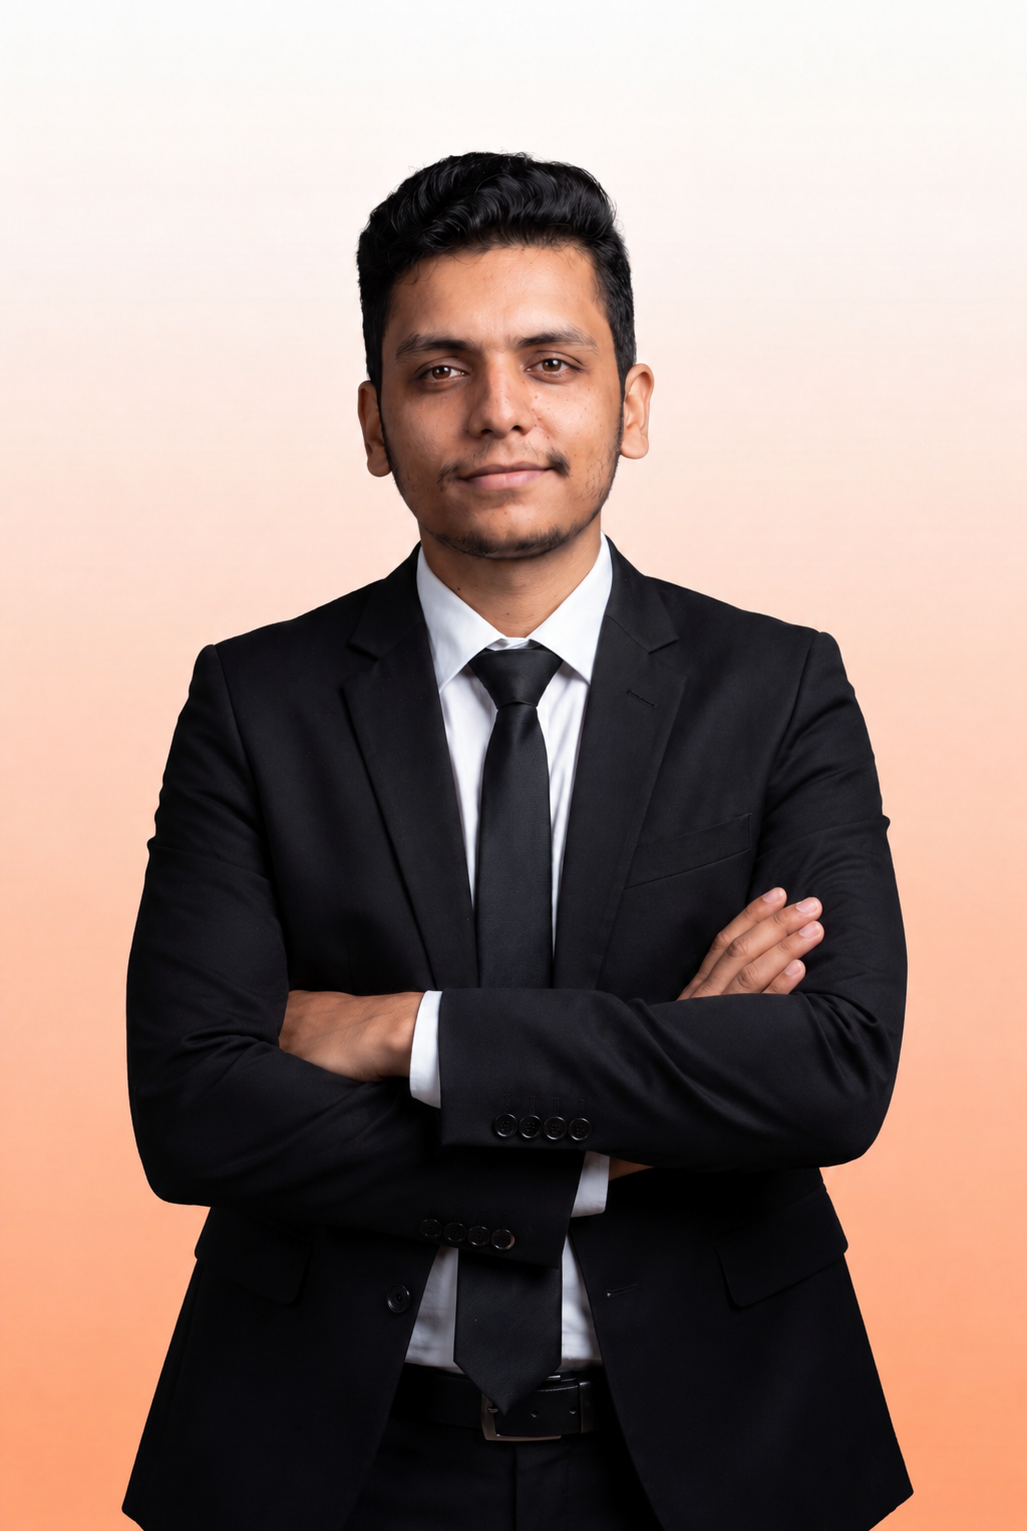
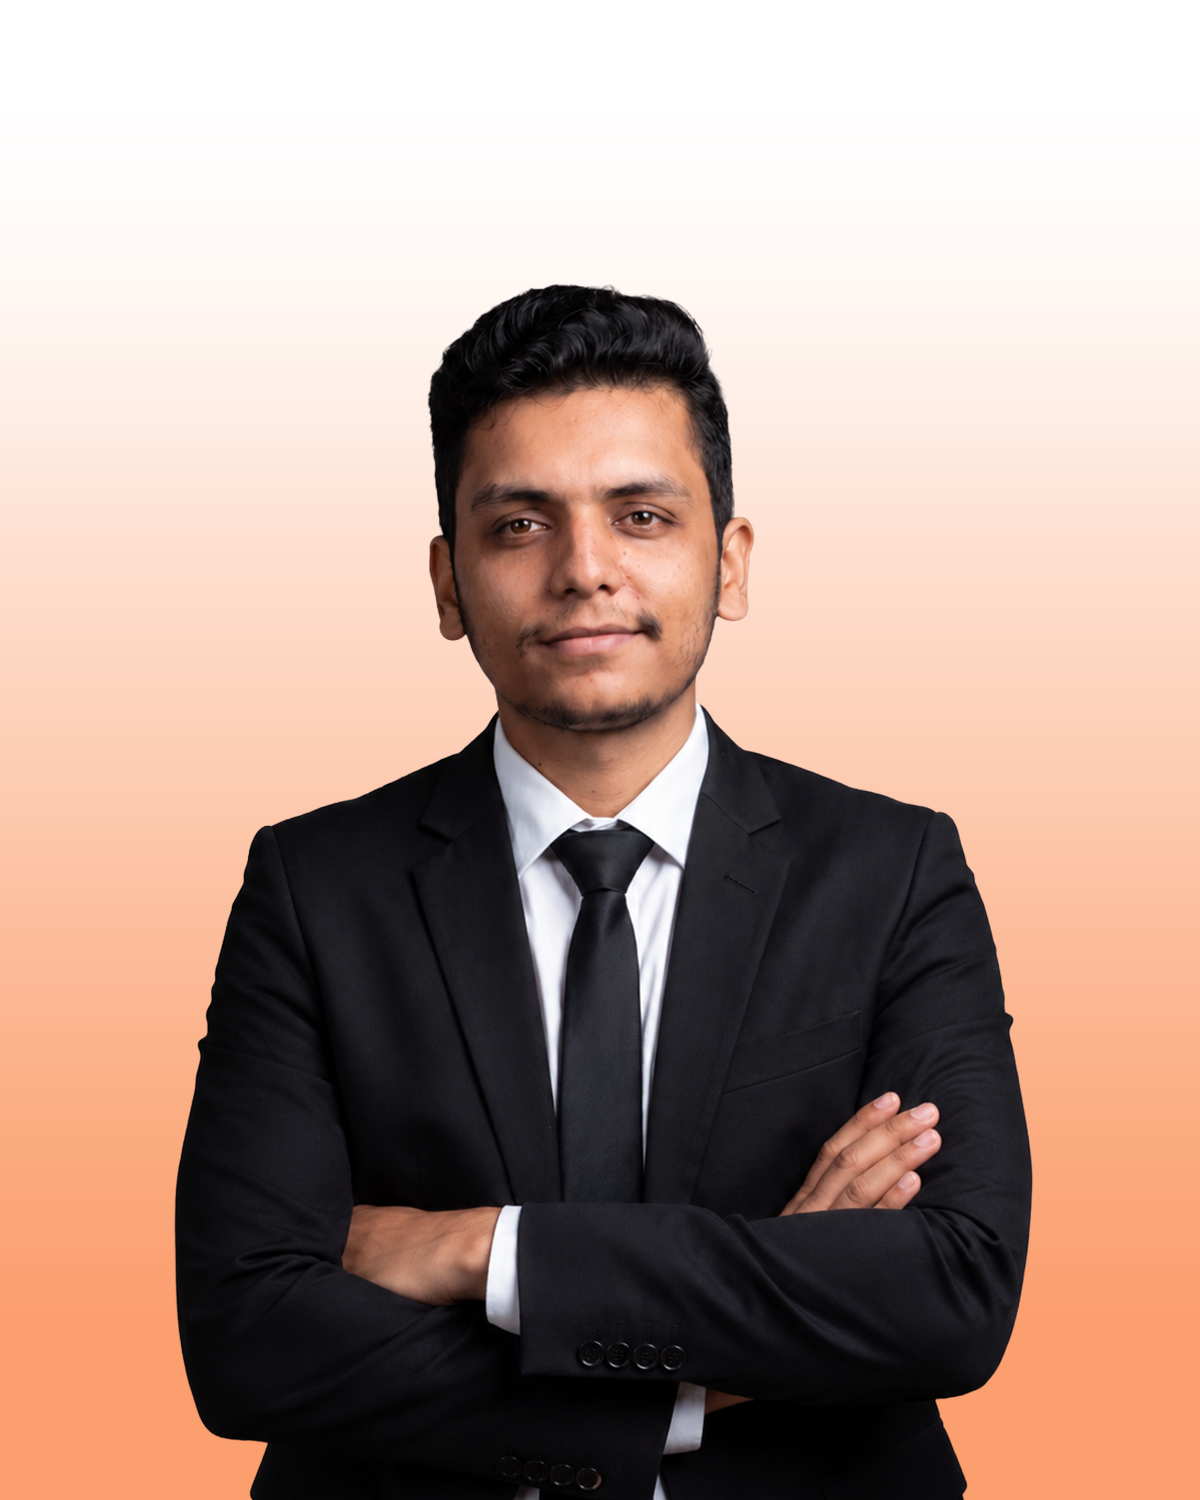
updated

diff --git a/src/app/component/about/Management.jsx b/src/app/component/about/Management.jsx
@@ -33,11 +33,22 @@ const managementData = [
     name: "Amirul Haque Shuhan",
     title: "Engineering the Future, One Solution at a Time",
     description:
-      "Amirul Haque Shuhan is a strategic leader dedicated to operational excellence and business growth. As Vice President, he oversees key agency initiatives, ensuring that Scaleup Ads Agency continues to deliver high-impact results for clients through innovation and disciplined execution.",
+      "Amirul Haque Shuhan is a strategic leader dedicated to operational excellence and business growth. As Vice President, he oversees key agency initiatives, ensuring that Fire AI Agency continues to deliver high-impact results for clients through innovation and disciplined execution.",
     designation: "VICE PRESIDENT",
     company: "BETOPIA GROUP",
     image: "/VP.png",
     reverse: false,
+  },
+  {
+    id: 4,
+    name: "Mohammad Sanjid Rayhan",
+    title: "Engineering the Future, One Solution at a Time",
+    description:
+      "Mohammad Sanjid Rayhan is a strategic leader dedicated to operational excellence and business growth. As AGM, he oversees key agency initiatives, ensuring that Fire AI Agency continues to deliver high-impact results for clients through innovation and disciplined execution.",
+    designation: "AGM",
+    company: "BETOPIA GROUP",
+    image: "/sanjid.png",
+    reverse: true,
   },
 ];
 

diff --git a/src/app/component/about/Team.jsx b/src/app/component/about/Team.jsx
@@ -10,7 +10,7 @@ const teamData = [
     id: 1,
     name: "Shahriar Hossain Jihad",
     designation: "Full Stack Developer (ELF)",
-    image: "/jihad.jpg",
+    image: "/Jihad.jpg",
     quote: "Ensuring flawless content delivery and seamless digital experiences.",
   },
   {